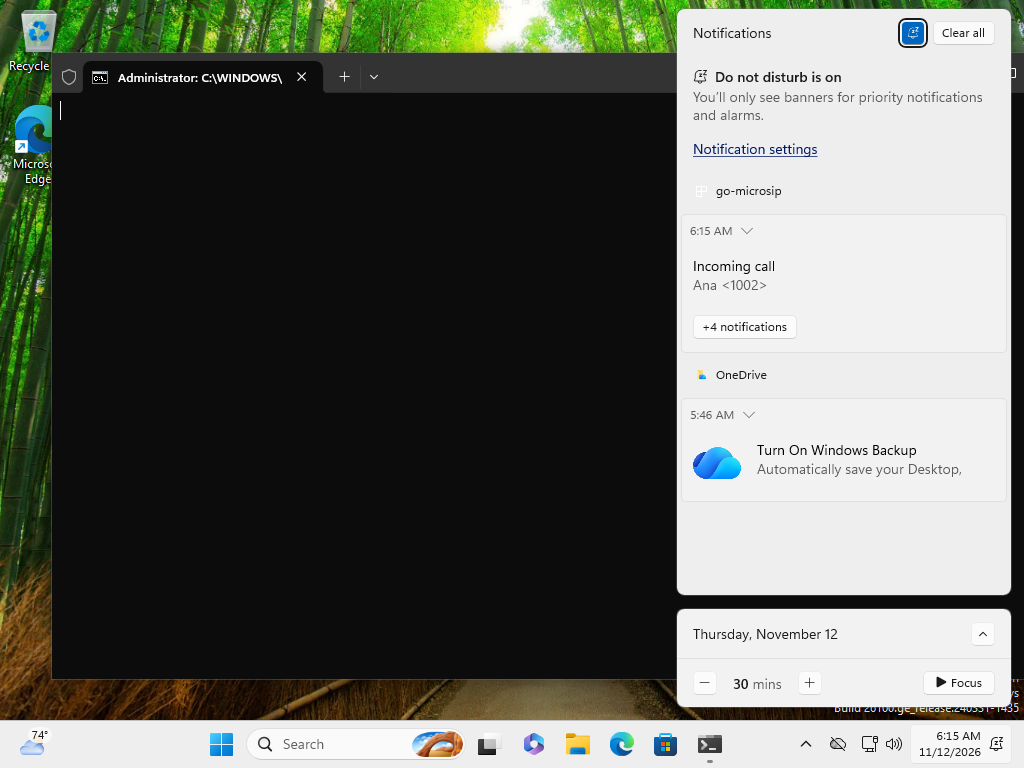
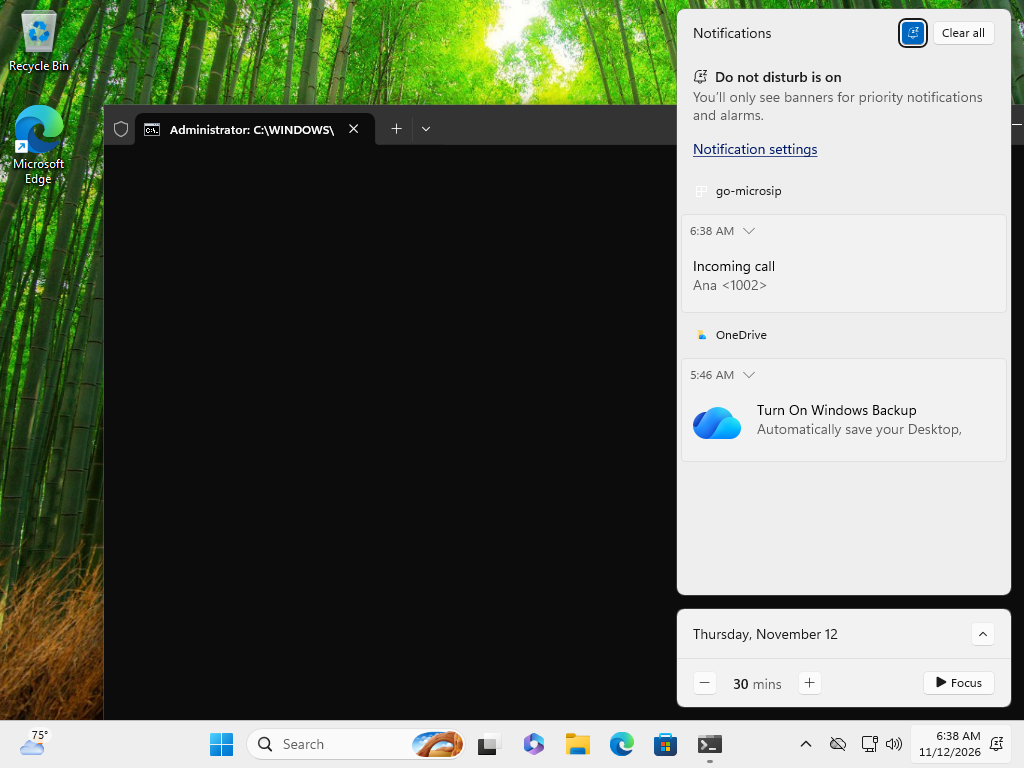
docs: the runs of the 0.3.0-m3 artifacts of commit 33137dc
The Windows VM on the answers to round 2 of the Codex review: the
control transport's new refusals, the restored desktop steps and this
run's toast alone in the notification center pass; the emulated sound
card still fails the audio threshold. The AppImage passes the lab
walkthrough.

diff --git a/docs/receipts/go-m4-desktop-2026-11-12.md b/docs/receipts/go-m4-desktop-2026-11-12.md
@@ -222,14 +222,14 @@ Independent review: Codex round 6 found the M4 work in its extract sound with tw
 
 ## Runs
 
-Artifacts `0.3.0-m3` of commit `1ca14bf` (`make go-dist`, `dirty false`, checksums verified; the third-party notices now carry the toast library, 82 components). The checks ran on that commit's tree, with one exception: the Windows VM's desktop script (`build/vm/desktop.ps1`) of that commit had lost three of its steps to an editing mistake (the second start, the call that waits and the tray; it also never started the toast test), which the run on it showed; the script was restored in the next commit, and the Windows run recorded here is the restored script on this commit's `.exe`.
+Artifacts `0.3.0-m3` of commit `33137dc` (`make go-dist`, `dirty false`, checksums verified; 82 components in the third-party notices), which answers round 2 of the Codex review. Commit `1ca14bf` before it shipped a Windows desktop script (`build/vm/desktop.ps1`) that had lost three of its steps to an editing mistake (the second start, the call that waits and the tray; it also never started the toast test), which the run on it and the review both showed; commit `a4ce823` restored it.
 
 | Command | Result |
 | --- | --- |
 | `make go-check`, `make go-test`, `make go-frontend-test` | pass (36 page tests) |
 | `make go-appimage-call` | pass: the AppImage through the 27 subtests ([log](go-m4/appimage-call.log)) |
-| `KEEP=1 make go-vm GO_VMS=windows11 SECONDS=60` | every step but the sound passes: the lock, the control transport, the Credential Manager and the application folder, the window, no listening port, the seven skins, links, the command line against the window, the second start, the tray; the toast reaches Windows, its buttons not verified; **the emulated sound card fails the audio threshold**, so the run as a whole fails ([log](go-m4/vm-windows11.log), [the window](../prints/go/windows/windows-desktop.png), [the notification center](../prints/go/windows/windows-toast.png)) |
-| `KEEP=1 make go-vm GO_VMS="ubuntu2604 debian13" SECONDS=20` | Ubuntu 26.04: pass. Debian 13: the desktop's services and the Rust candidate beside it pass; **the sound fails** again in this reused VM, by one stretch of 98 ms without samples in 20 s ([Ubuntu](go-m4/vm-ubuntu2604-beside.log), [Debian](go-m4/vm-debian13-beside.log)) |
+| `KEEP=1 make go-vm GO_VMS=windows11 SECONDS=60` | every step but the sound passes: the lock, the control transport (a socket left behind is replaced, a file of its name is refused, a process newer than the question is refused), the Credential Manager and the application folder, the window, no listening port, the seven skins, links, the command line against the window, the second start, the call that waits and is denied, the tray; this run's toast, the only one in the notification center after the step cleared it, reaches Windows, its buttons not verified; **the emulated sound card fails the audio threshold**, so the run as a whole fails ([log](go-m4/vm-windows11.log), [the window](../prints/go/windows/windows-desktop.png), [the notification center](../prints/go/windows/windows-toast.png)) |
+| `KEEP=1 make go-vm GO_VMS="ubuntu2604 debian13" SECONDS=20` | not run again on this commit, which changes nothing the Linux VMs check. On the artifacts of `1ca14bf`: Ubuntu 26.04 passed; on Debian 13 the desktop's services and the Rust candidate beside it passed and **the sound failed** again in this reused VM, by one stretch of 98 ms without samples in 20 s ([Ubuntu](go-m4/vm-ubuntu2604-beside.log), [Debian](go-m4/vm-debian13-beside.log)) |
 | `make go-window-call`, `make go-headless`, `make go-self-test`, `make go-offline-skins`, the page's audits | not run again on this commit: the lab walkthrough ran through the AppImage; the page's drawing is as in commit `eec4a52` |
 | `make go-notify`, `make go-keyring`, `make go-lab` | not run again: nothing they exercise changed since their runs recorded for commits `aec4441` and `3b6b8bf` |
 | the five-minute sound threshold | last run on commit `69c0dc9`: Ubuntu 26.04 passed ([log](go-m4/vm-ubuntu2604.log)); Debian 13 failed by one stretch of 99 ms ([log](go-m4/vm-debian13.log)). The Debian VM, reused and sharing the host with two others now, has failed the sound in most runs since and passed in some; the adapter is the one that passed five minutes on a clean Debian VM at commit `4a5bd14` ([log](go-m3/vm-debian13.log)). Not explained further: to be run again on a clean VM before task 7.2 relies on it |
